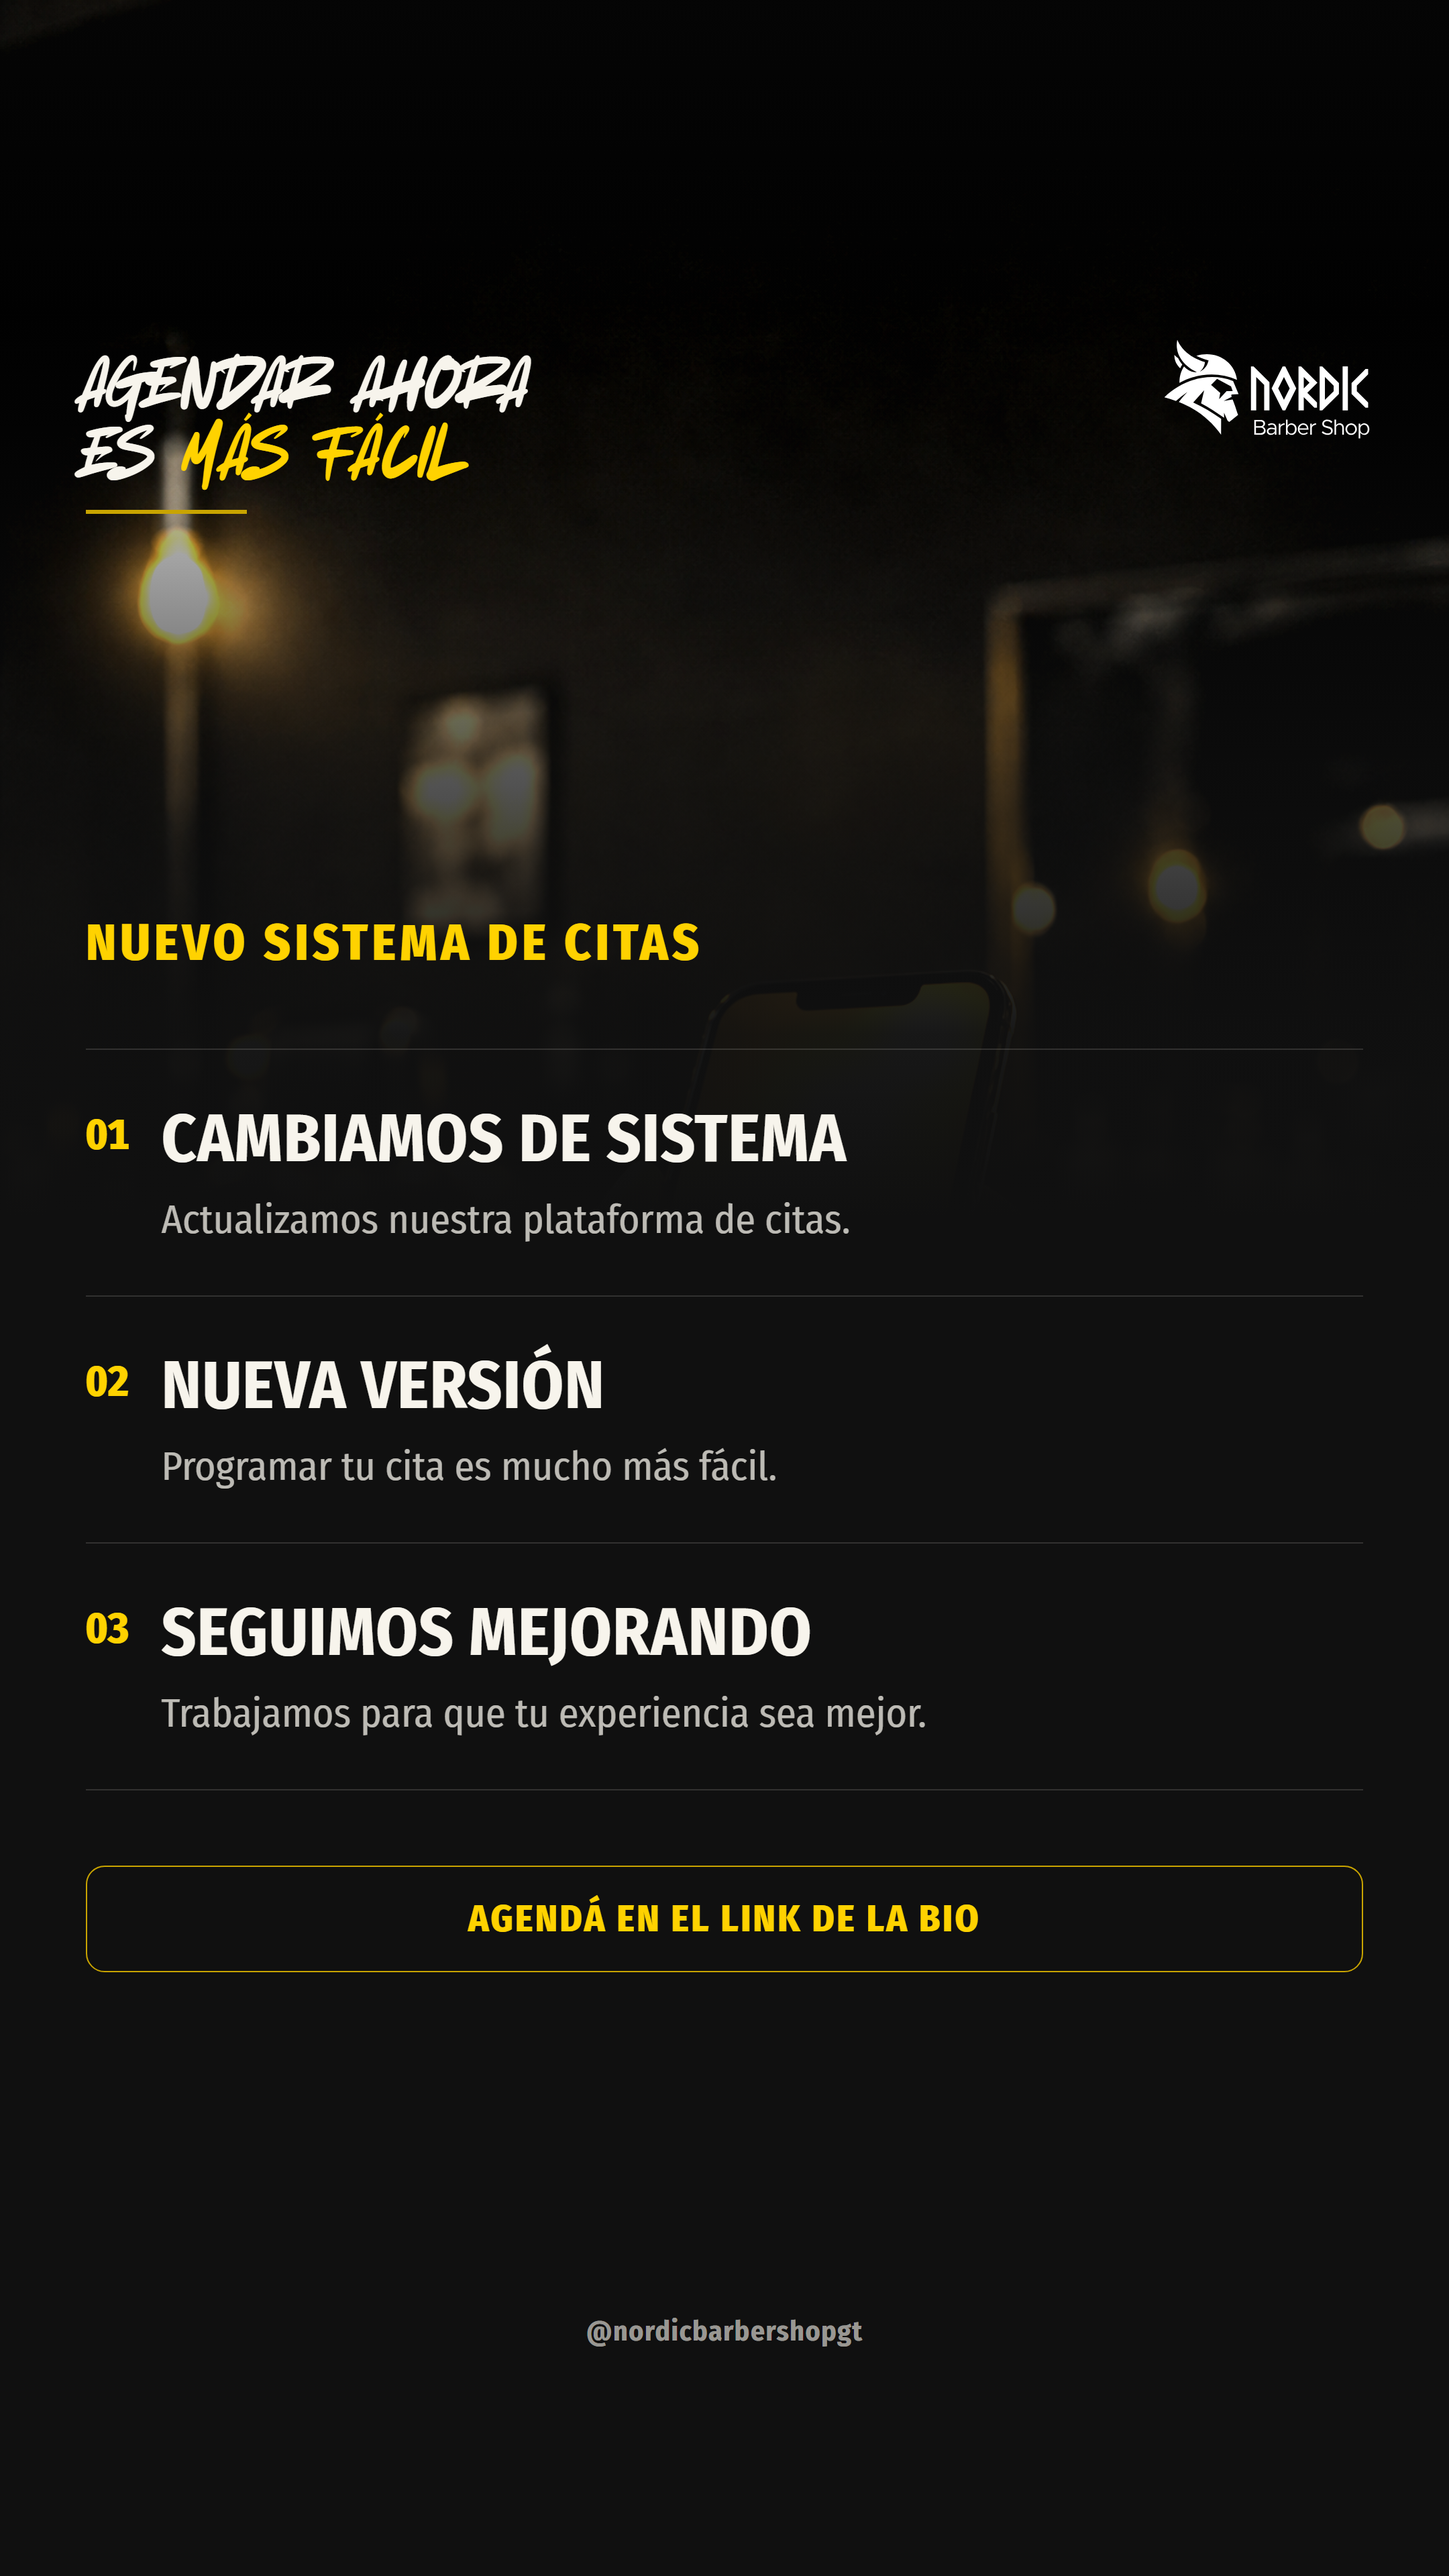
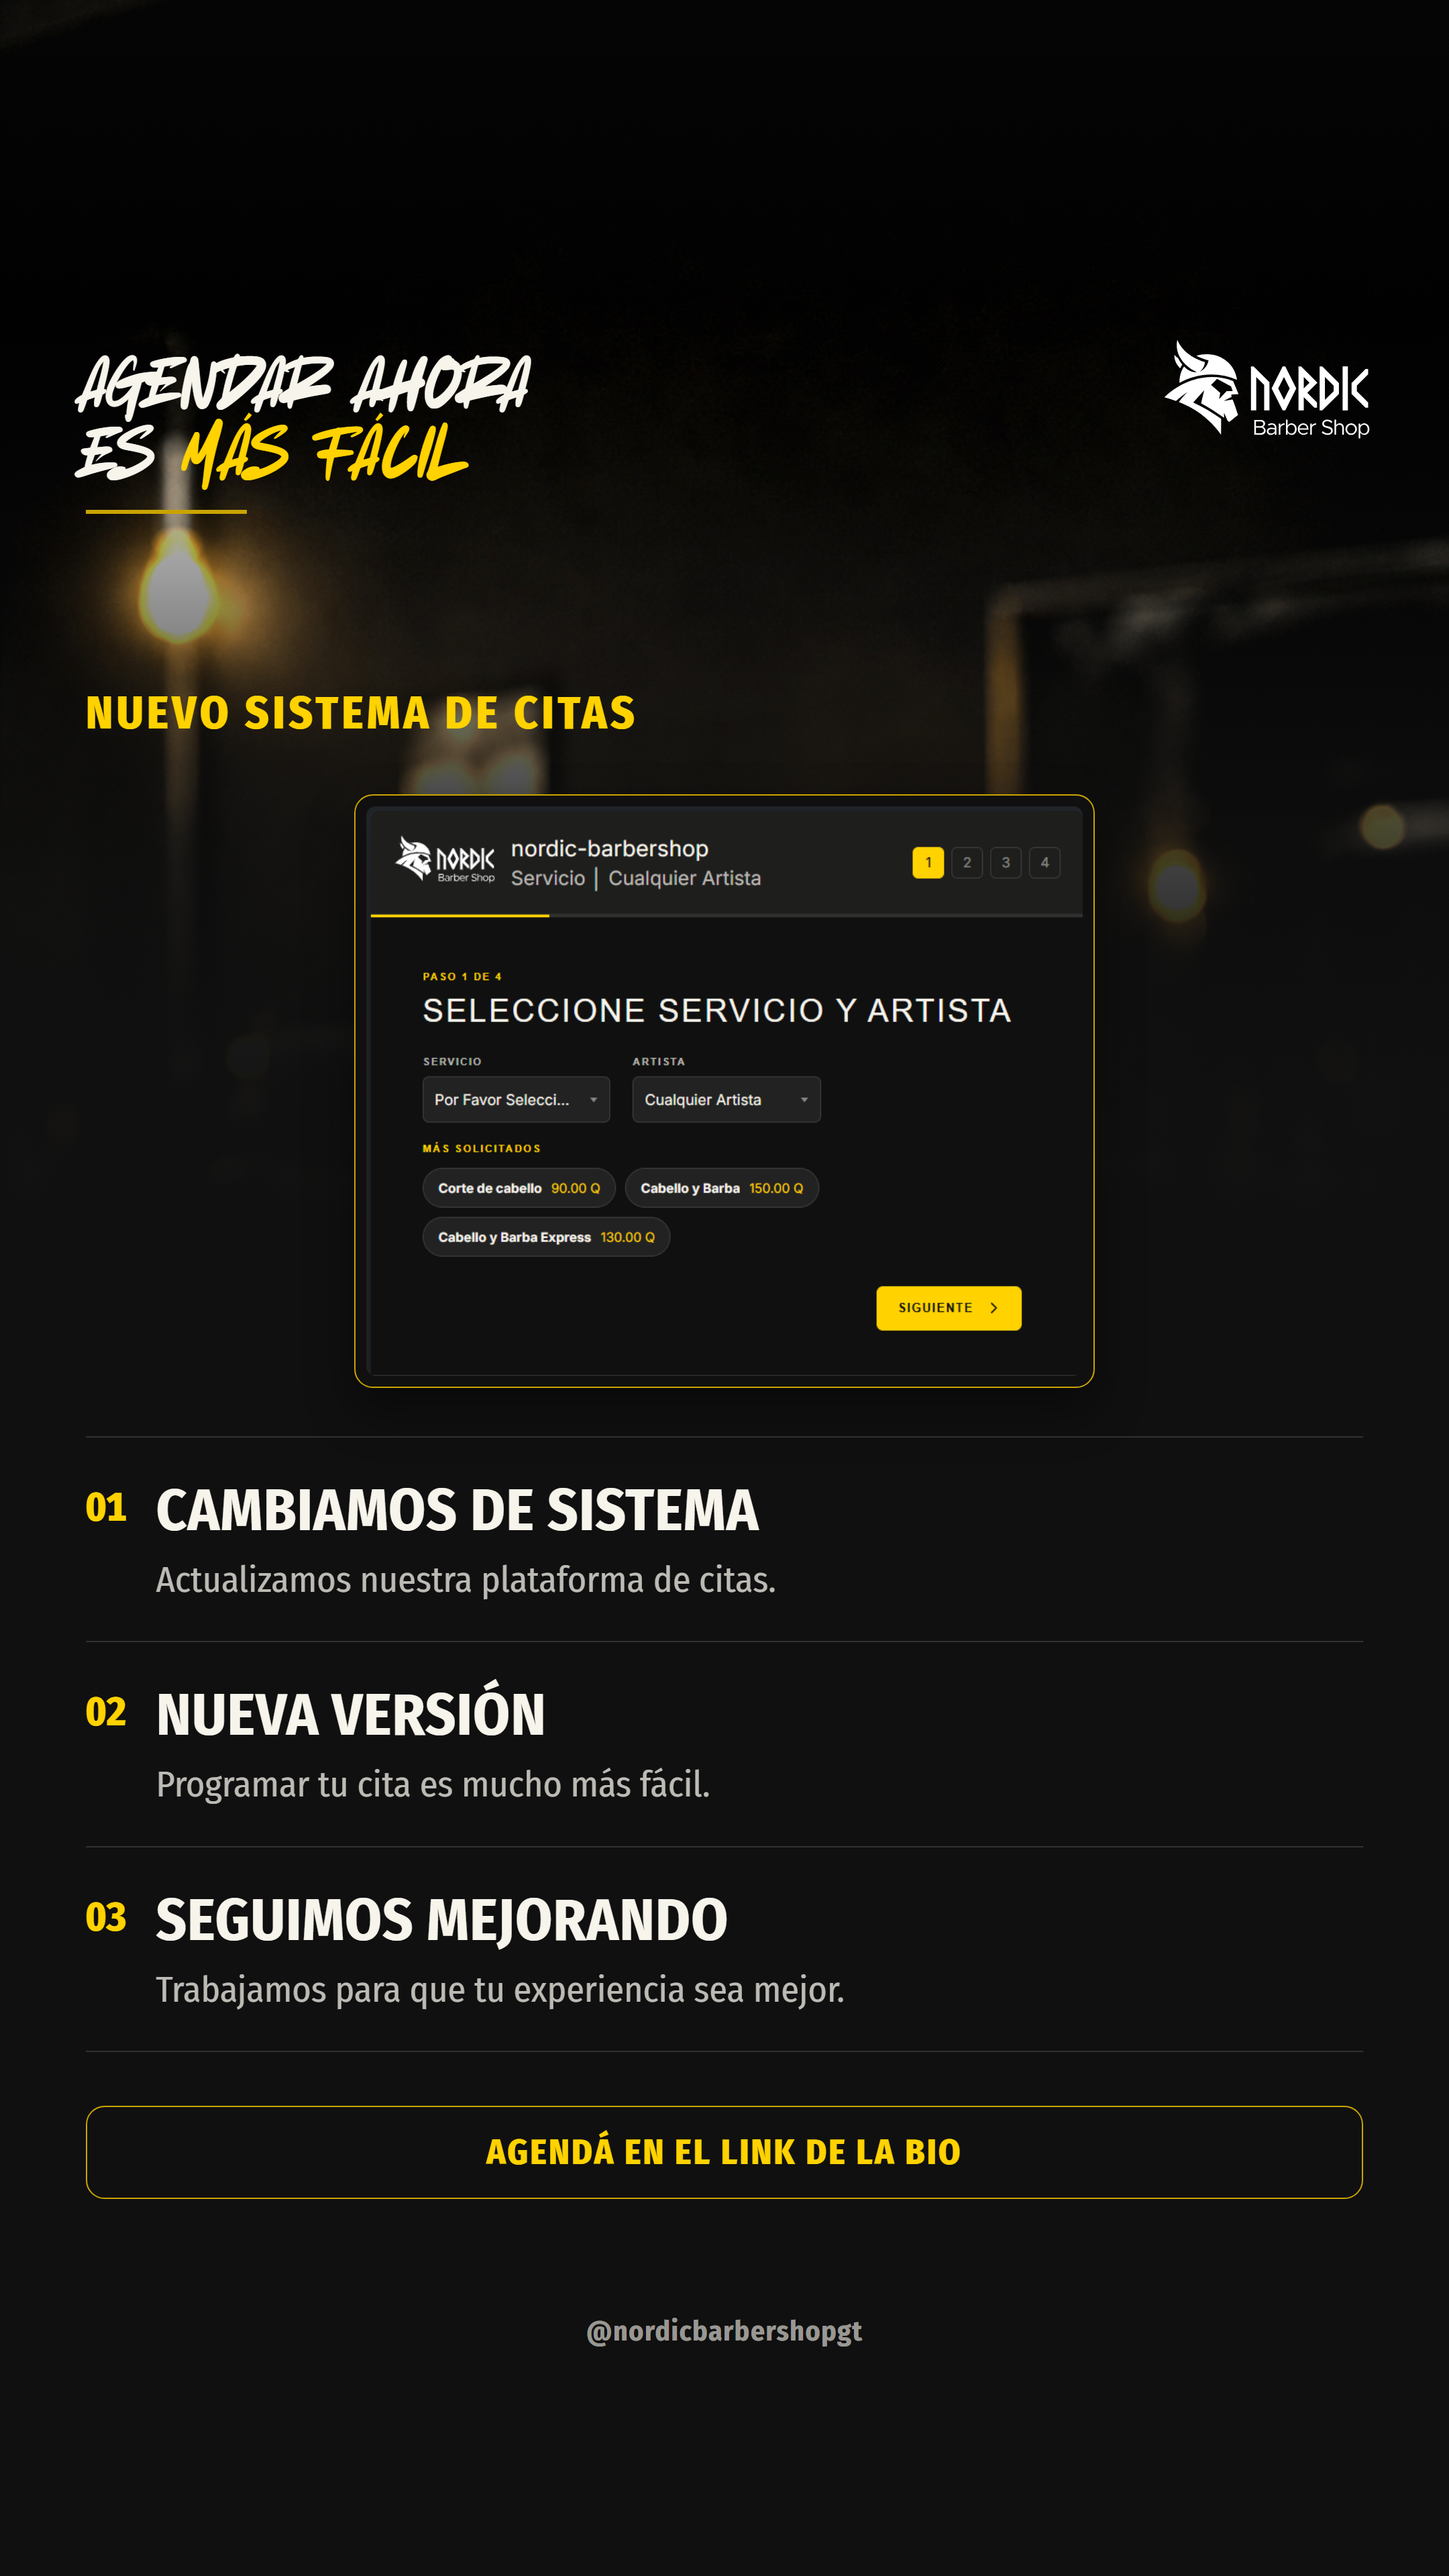
Add missing app screenshot to nuevo-sistema-citas story frame 2
01-story.png shipped without the booking-system screenshot that appears
in the feed tile and story frame 1 — added the same assets/app-sistema.png
card (smaller, 58% width vs. frame 1's 80%) between the subtitle and the
benefit list in index-story-02.html, trimming subtitle/benefit/CTA sizes
slightly so everything still fits the 9:16 frame without overflowing.

diff --git a/posts/instagram/nuevo-sistema-citas/index-story-02.html b/posts/instagram/nuevo-sistema-citas/index-story-02.html
@@ -106,47 +106,63 @@
   .subtitle{
     font-family:"Fira Sans Condensed";
     font-weight:800;
-    font-size:38px;
+    font-size:34px;
     letter-spacing:.08em;
     text-transform:uppercase;
     color:var(--gold);
-    margin-bottom:56px;
+    margin-bottom:40px;
+  }
+
+  /* Captura del sistema real — también en este frame, no solo en el primero */
+  .screenshot-wrap{
+    background:var(--ink);
+    border:1px solid var(--gold-deep);
+    border-radius:14px;
+    padding:8px;
+    box-shadow:0 16px 36px rgba(0,0,0,.45);
+    margin:0 auto 36px;
+    width:58%;
+  }
+  .screenshot{
+    display:block;
+    width:100%;
+    border-radius:7px;
   }
 
   .benefits{
     border-top:1px solid rgba(247,244,236,.15);
-    margin-bottom:56px;
+    margin-bottom:40px;
   }
   .benefit-row{
     display:flex;
     align-items:flex-start;
-    gap:24px;
-    padding:36px 0;
+    gap:22px;
+    padding:28px 0;
     border-bottom:1px solid rgba(247,244,236,.15);
   }
   .benefit-num{
     font-family:"Fira Sans Condensed";
     font-weight:800;
-    font-size:32px;
+    font-size:30px;
     color:var(--gold);
     font-feature-settings:"tnum" 1;
-    padding-top:8px;
+    padding-top:6px;
   }
   .benefit-text{flex:1;}
   .benefit-label{
     font-family:"Fira Sans Condensed";
     font-weight:700;
-    font-size:50px;
+    font-size:44px;
     letter-spacing:.01em;
     text-transform:uppercase;
     color:var(--bone);
-    margin-bottom:10px;
+    margin-bottom:8px;
   }
   .benefit-sub{
     font-family:"Fira Sans Condensed";
     font-weight:400;
-    font-size:30px;
-    line-height:1.35;
+    font-size:27px;
+    line-height:1.3;
     color:var(--bone);
     opacity:.75;
   }
@@ -154,13 +170,13 @@
   .cta{
     border:1px solid var(--gold-deep);
     border-radius:14px;
-    padding:22px 24px;
+    padding:18px 24px;
     text-align:center;
   }
   .cta-text{
     font-family:"Fira Sans Condensed";
     font-weight:800;
-    font-size:28px;
+    font-size:26px;
     letter-spacing:.06em;
     text-transform:uppercase;
     color:var(--gold);
@@ -195,6 +211,10 @@
   <div class="content">
 
     <div class="subtitle">Nuevo sistema de citas</div>
+
+    <div class="screenshot-wrap">
+      <img class="screenshot" src="assets/app-sistema.png" alt="Captura del nuevo sistema de citas de Nordic Barber Shop">
+    </div>
 
     <div class="benefits">
       <div class="benefit-row">

diff --git a/index.html b/index.html
@@ -454,7 +454,7 @@ const POSTS = [
     title:'Nuevo sistema de citas',
     label:'Versión: Story 2/2',
     cover:'posts/instagram/nuevo-sistema-citas/01-story.png',
-    alt:'Anuncio Nordic Barber Shop del nuevo sistema de citas, versión Story (2/2): recapitulación del titular Agendar ahora es Más fácil sobre la foto duotono aclarada, subtítulo Nuevo sistema de citas y lista de tres puntos en grande con sublínea (cambiamos de sistema, nueva versión, seguimos mejorando) y CTA agendá en el link de la bio',
+    alt:'Anuncio Nordic Barber Shop del nuevo sistema de citas, versión Story (2/2): recapitulación del titular Agendar ahora es Más fácil sobre la foto duotono aclarada, subtítulo Nuevo sistema de citas, captura real de la pantalla del sistema de reservas y lista de tres puntos en grande con sublínea (cambiamos de sistema, nueva versión, seguimos mejorando) y CTA agendá en el link de la bio',
     copyJson:'posts/instagram/nuevo-sistema-citas/copy.json',
     file:'01-story.png'
   },
